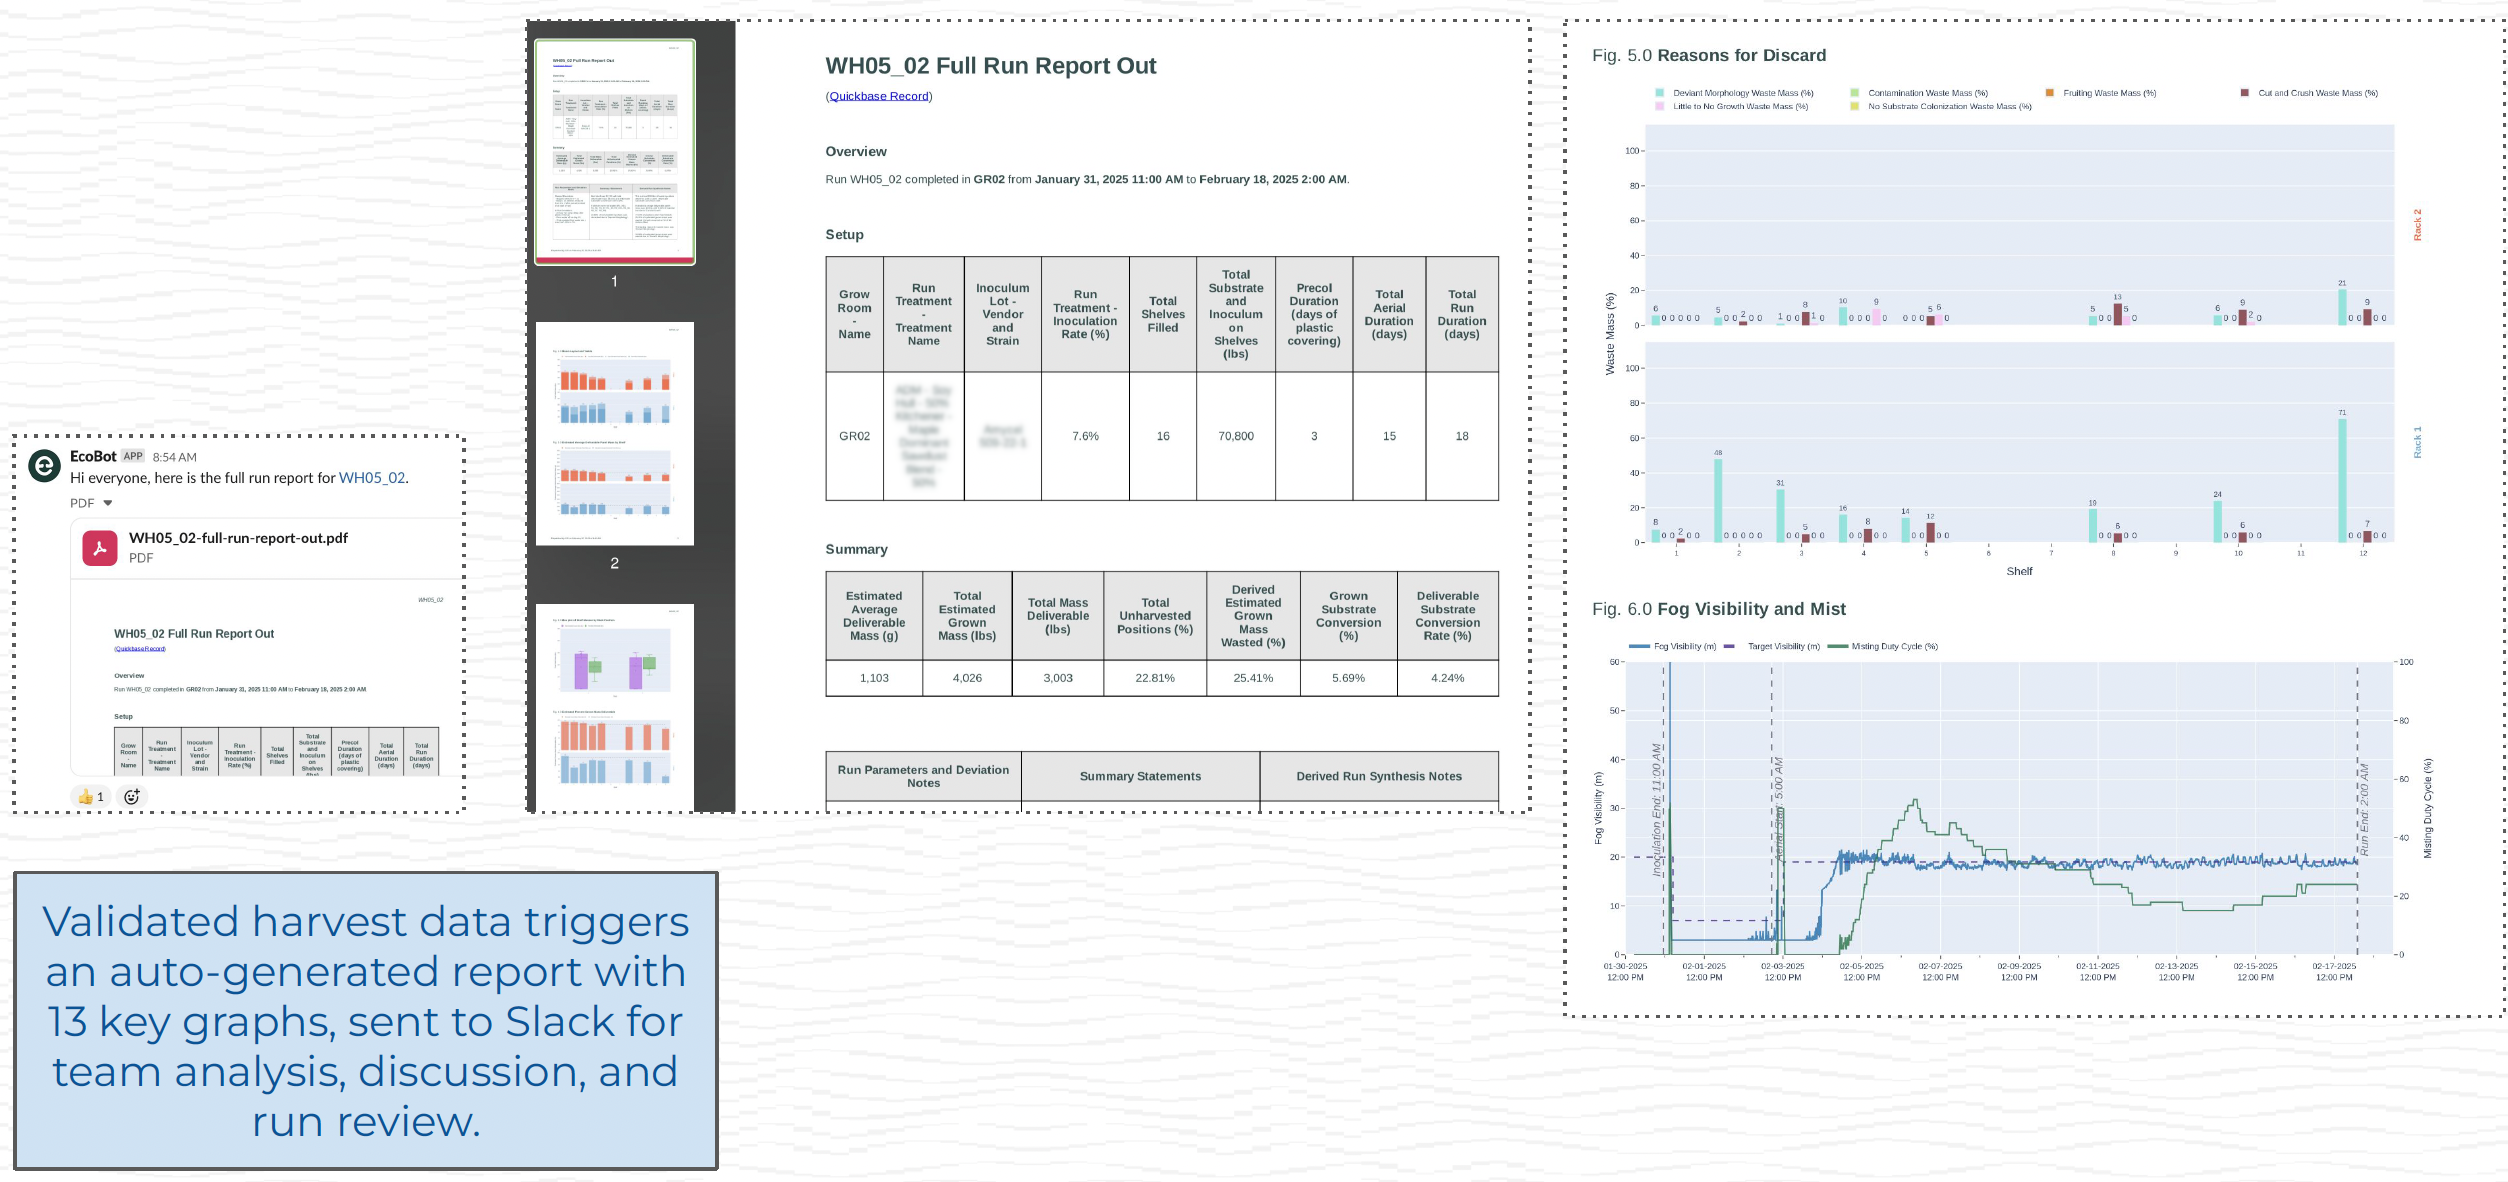
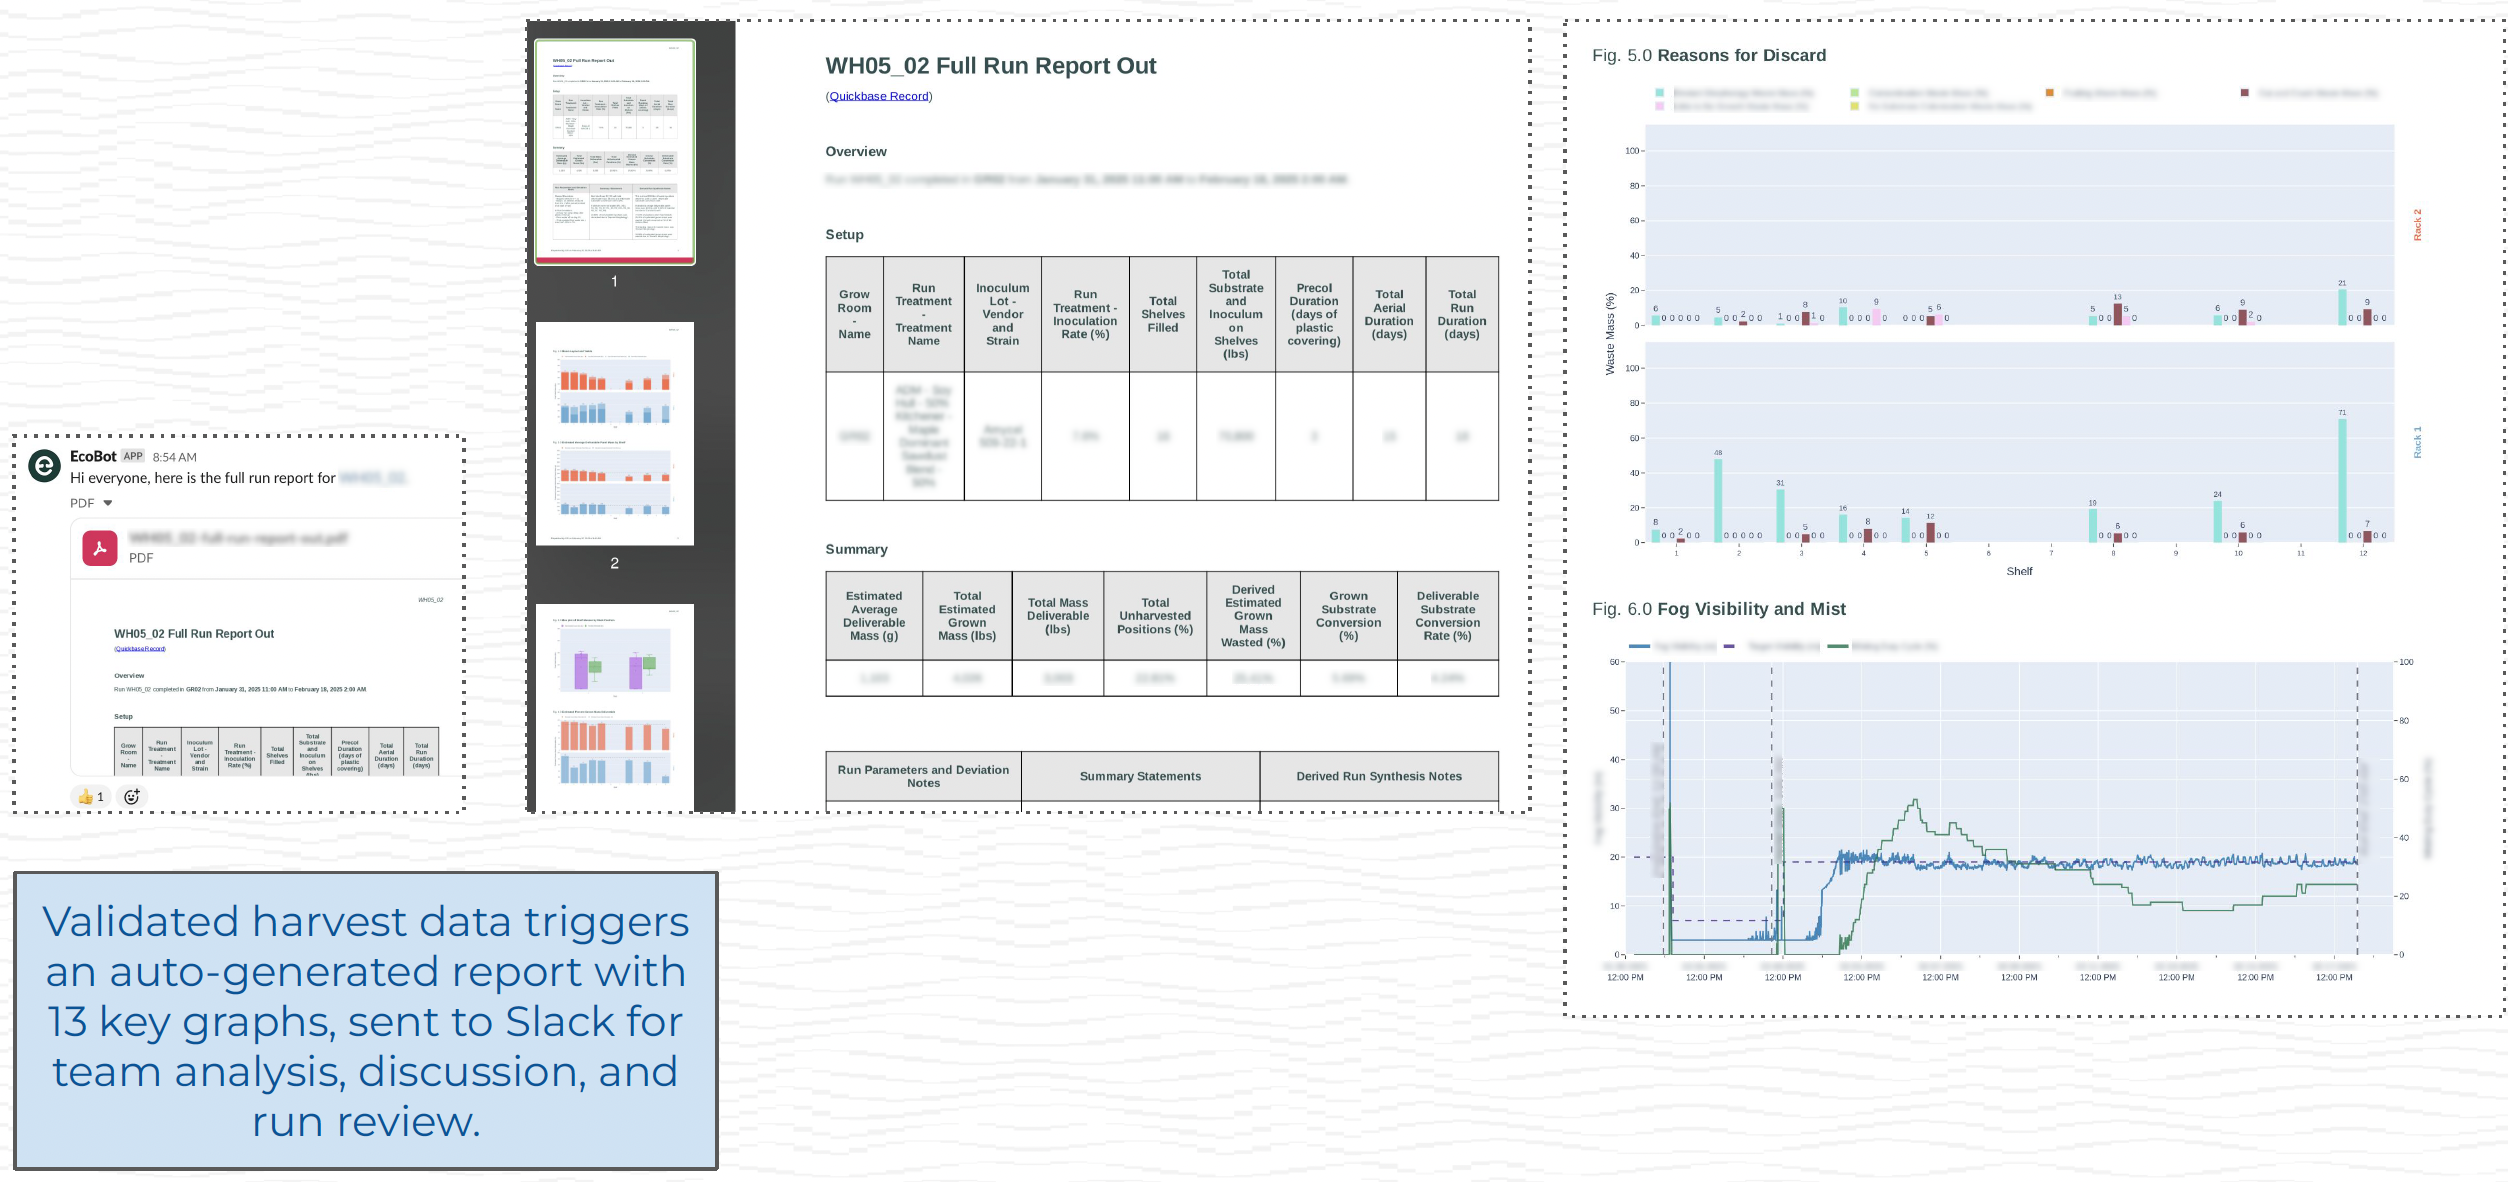
Replace images

diff --git a/index.html b/index.html
@@ -90,9 +90,9 @@ Previously, I was a tenured professor at the University of Pennsylvania, where m
 
 
     <div style="width: 300px;  margin-bottom: 40px; ">
-      <img src="./imgs/data_view1.png" alt="Farm Harvast Reports" style="width: 100%; border-radius: 8px;" />
-      <img src="./imgs/data_view3.png" alt="Product yield and KPI Report" style="width: 100%; border-radius: 8px;" />
-      <img src="./imgs/data_view4.png" alt="Treatment Performance Report" style="width: 100%; border-radius: 8px;" />
+      <img src="./imgs/data_view1b.png" alt="Farm Harvast Reports" style="width: 100%; border-radius: 8px;" />
+      <img src="./imgs/data_view3b.png" alt="Product yield and KPI Report" style="width: 100%; border-radius: 8px;" />
+      <img src="./imgs/data_view4b.png" alt="Treatment Performance Report" style="width: 100%; border-radius: 8px;" />
       <h3>Enterprise Resource Management</h3>
       <p>
         I led Ecovative’s Data Systems and Intelligence team in building a custom enterprise resource management platform to support scaled mycelium manufacturing. The system integrated resource planning, treatment scheduling, harvest tracking, and quality control reporting into a unified data infrastructure. It enabled real-time visibility across operations, standardized production protocols, and supported traceability across substrates, recipes, and material outcomes.
